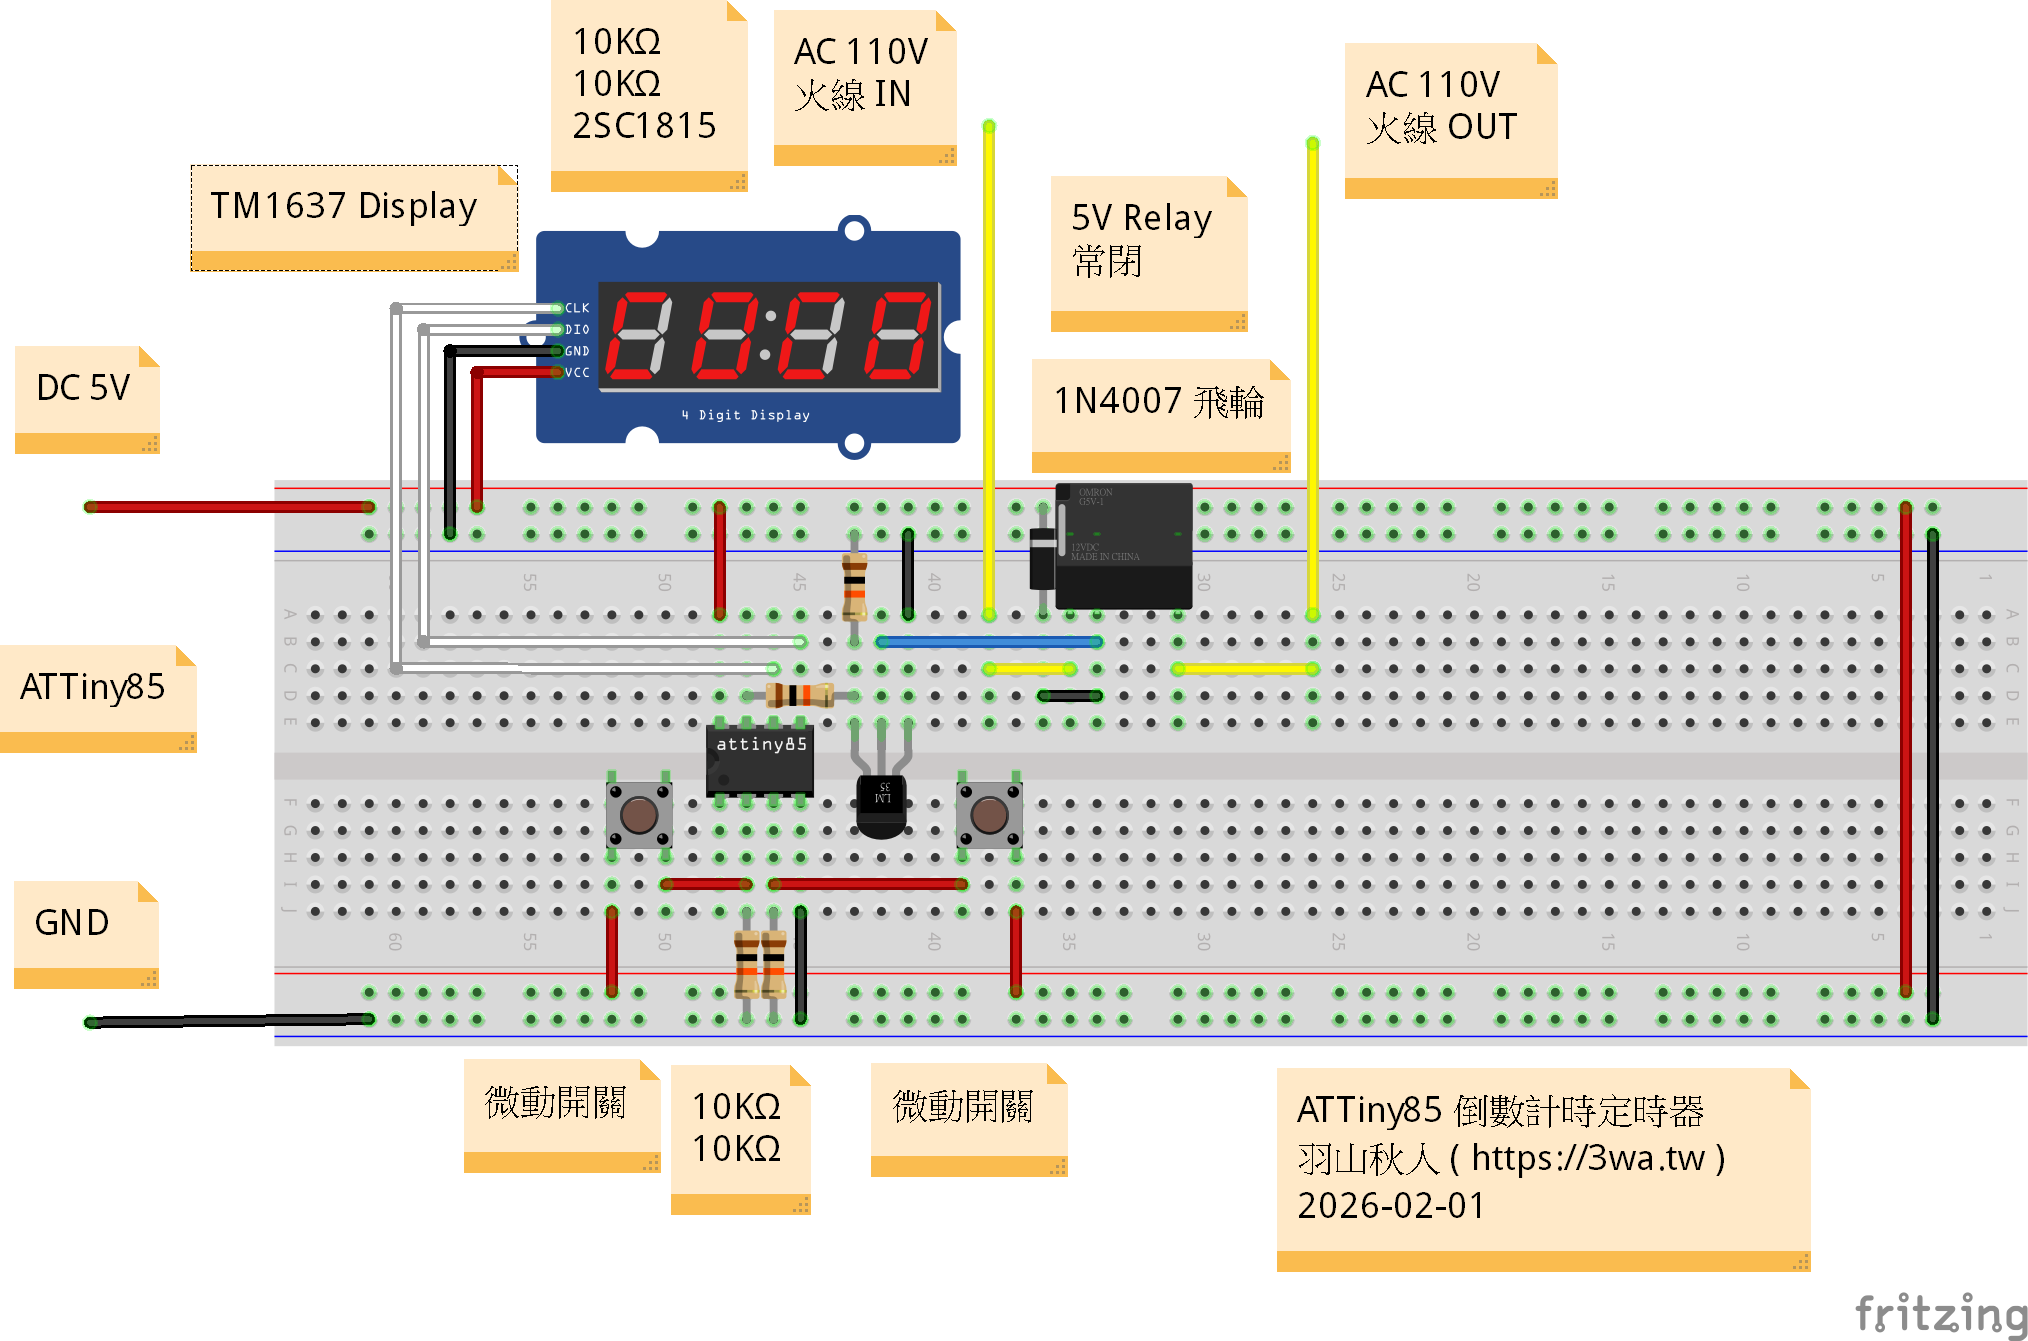
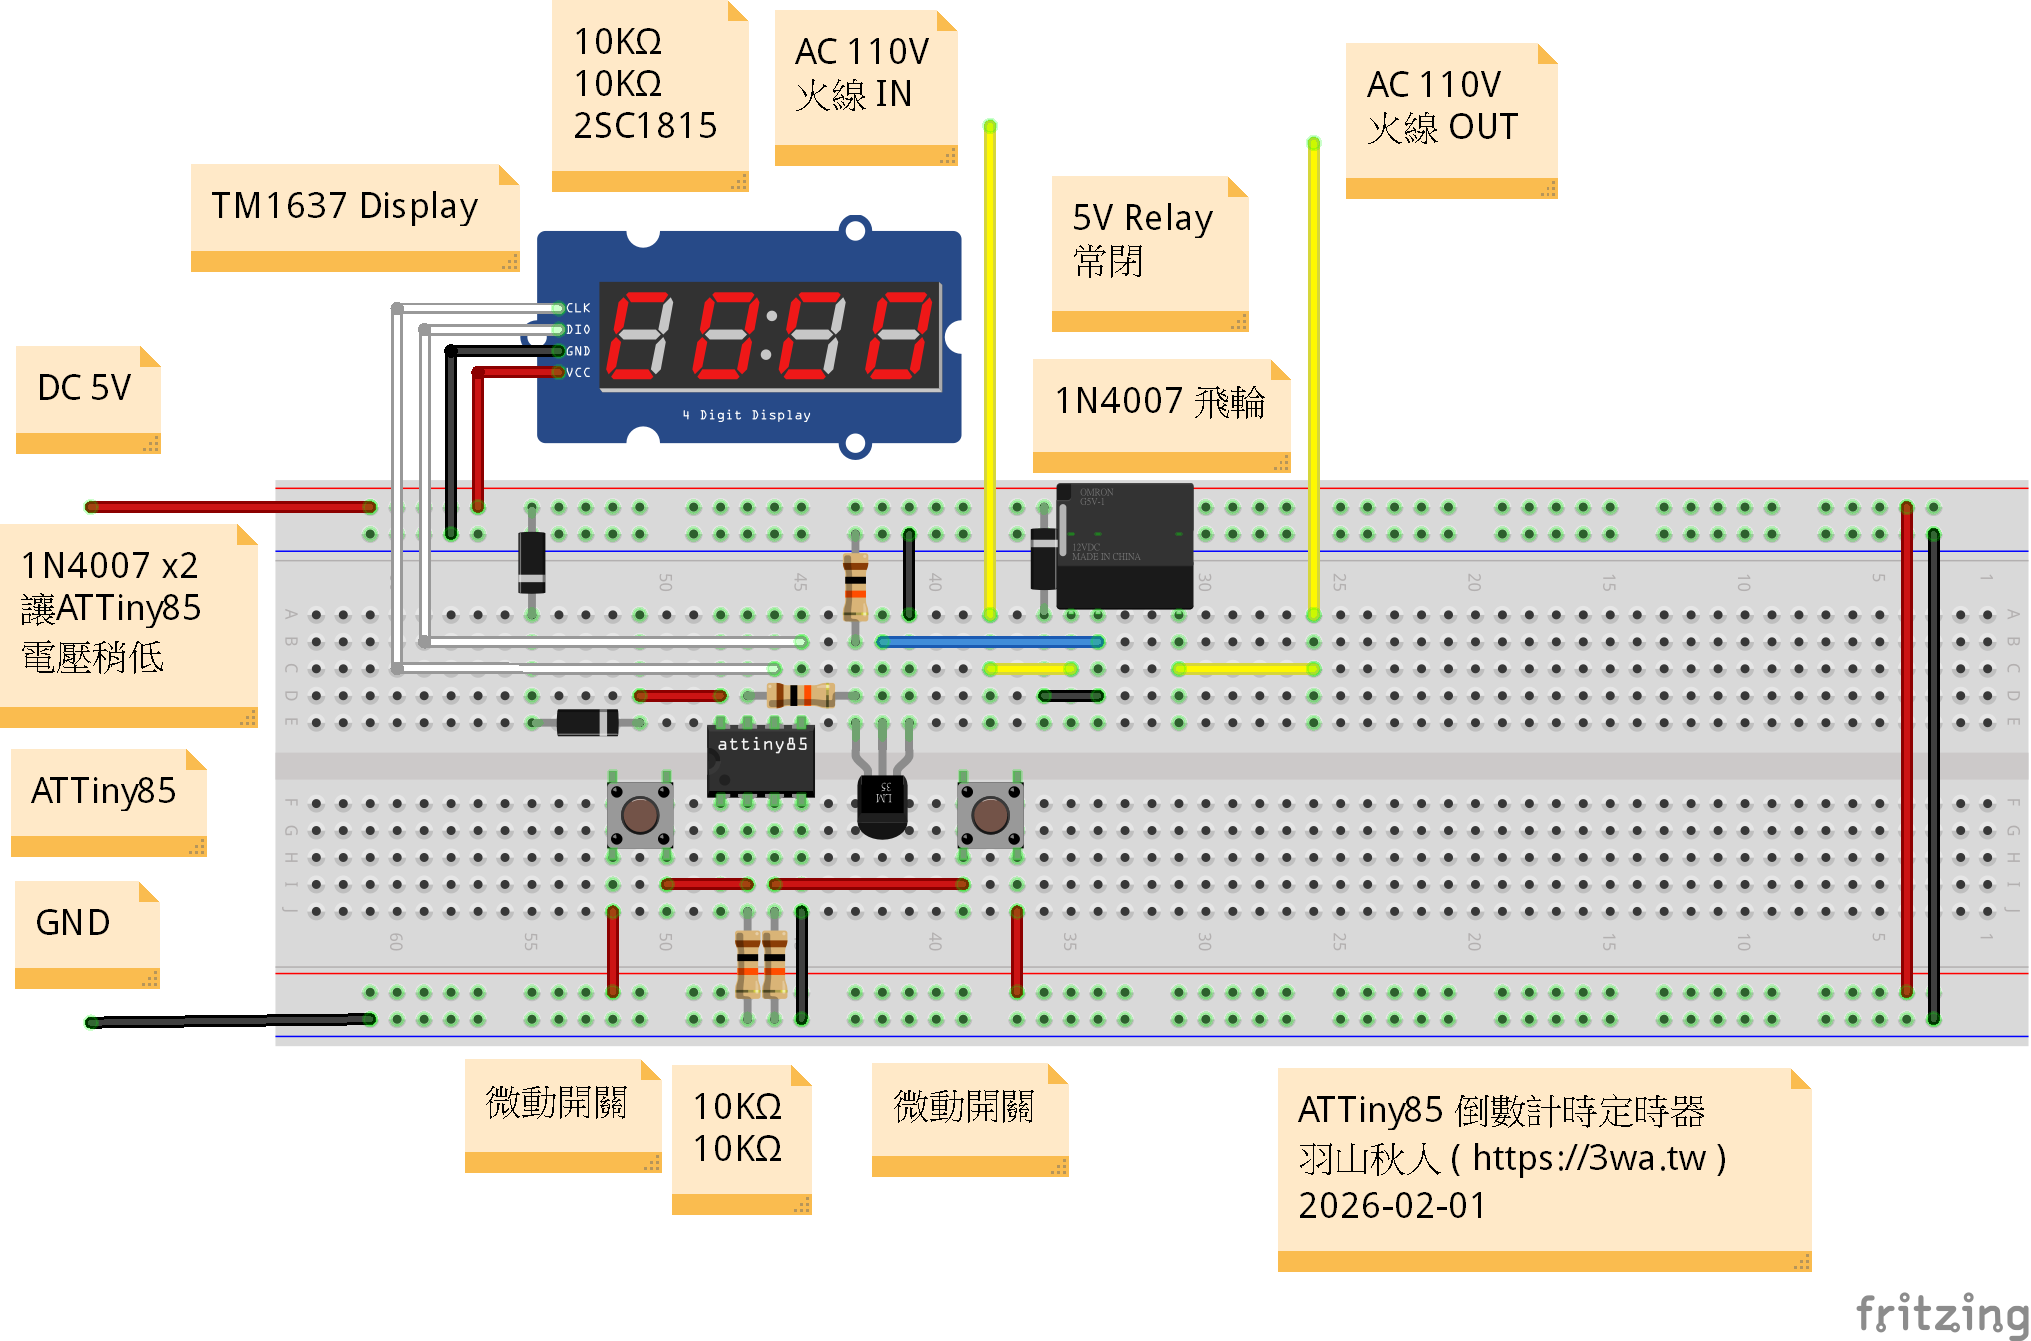
更新電路圖

diff --git a/README.md b/README.md
@@ -40,6 +40,7 @@
 - 電阻 **10KΩ 1/2W ×3**  
 - 電阻 **220Ω 1/2W ×1**  
 - 二極體 **1N4007 ×1**（作為飛輪二極體）  
+- 二極體 **1N4007 ×2**（ATTiny85直接5V似乎容易當機，並造成TM1637亂碼）  
 - 電晶體 **NPN 2SC1815 ×1**  
 - 5V 供電（用 USB 豆腐頭即可）
 
